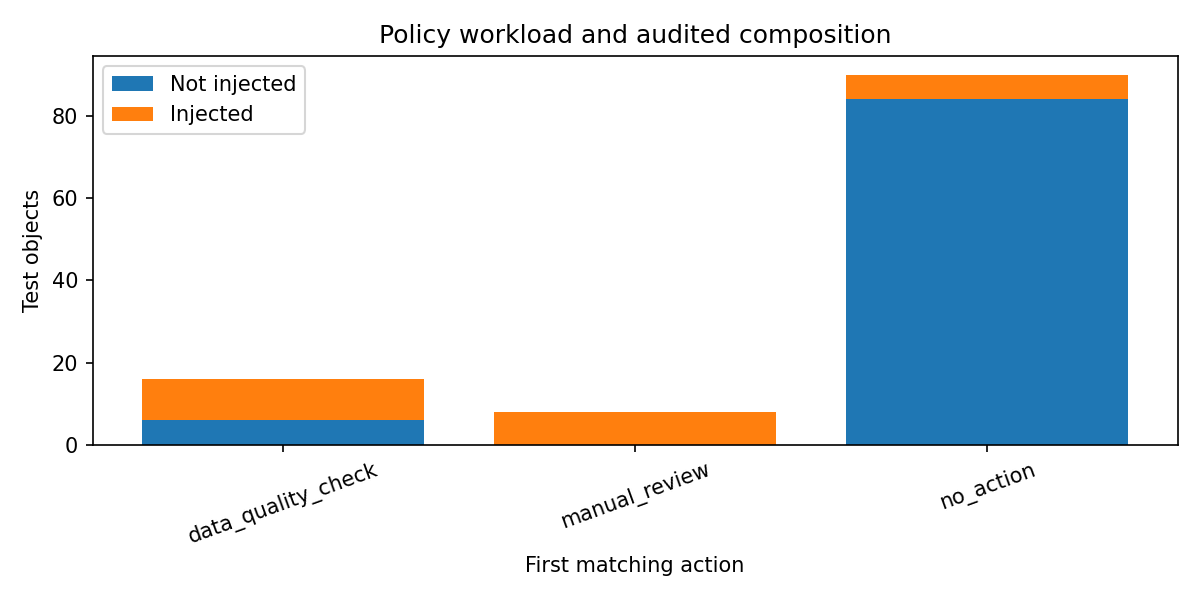
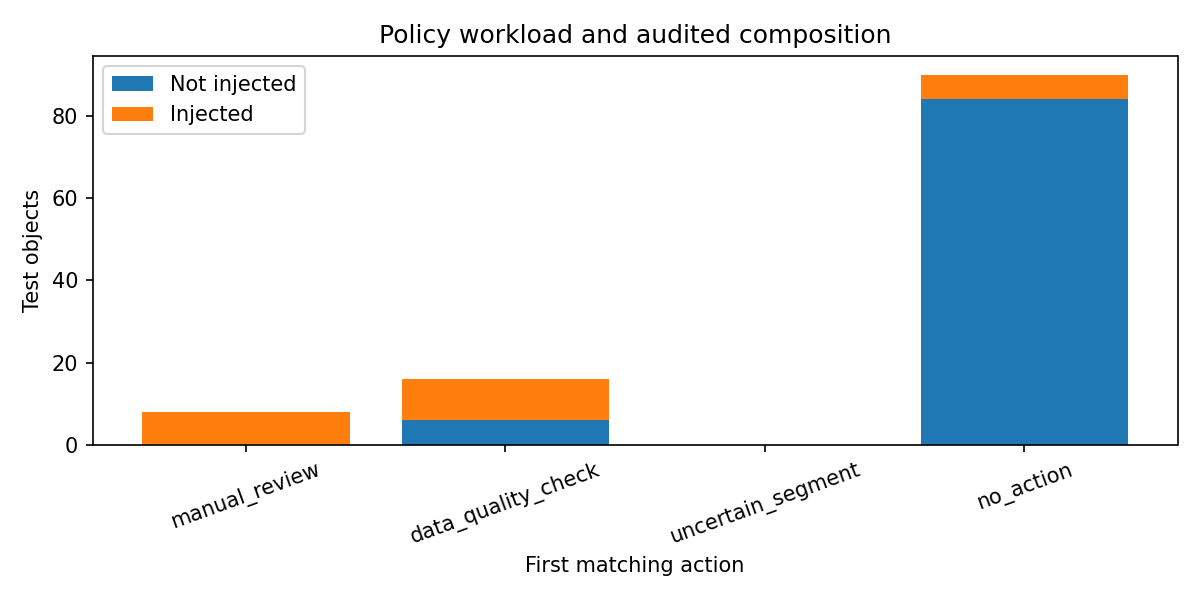
practical06: retain zero-count actions in policy consequence tables

diff --git a/practical06/pr06_analysis.py b/practical06/pr06_analysis.py
@@ -114,7 +114,9 @@ def run():
     reviewed=scores.action!='no_action';truth=batch.is_anomaly.astype(bool)
     audit=scores[['id','action','conflict']].copy();audit['controlled_anomaly']=truth;audit['kind']=batch.kind
     audit['diagnosis_audit_only']=d.y_test.to_numpy();save(audit,'action_label_audit')
-    actions=audit.groupby('action').agg(n=('id','size'),tp=('controlled_anomaly','sum'),conflicts=('conflict','sum')).reset_index()
+    all_actions=[r['action'] for r in cfg['policy']]+['no_action']
+    actions=audit.groupby('action').agg(n=('id','size'),tp=('controlled_anomaly','sum'),conflicts=('conflict','sum'))
+    actions=actions.reindex(all_actions,fill_value=0).rename_axis('action').reset_index()
     actions['fp']=actions.n-actions.tp;actions['fraction']=actions.n/len(scores);save(actions,'action_summary')
     tp=int((reviewed&truth).sum());fp=int((reviewed&~truth).sum());fn=int((~reviewed&truth).sum())
     metrics={'train_n':len(raw),'test_n':len(scores),'q':int(b['pca'].n_components_),'k':k,

diff --git a/practical06/tests/test_audit.py b/practical06/tests/test_audit.py
@@ -80,6 +80,8 @@ class TestAudit(unittest.TestCase):
         self.assertEqual(len(list((ROOT/'figures').glob('*.png'))),7)
         self.assertEqual(len(pd.read_csv(ROOT/'results/object_stability.csv')),455)
         self.assertEqual(len(pd.read_csv(ROOT/'results/cluster_profiles.csv')),60)
+        self.assertEqual(set(pd.read_csv(ROOT/'results/action_summary.csv').action),
+                         {'manual_review','data_quality_check','uncertain_segment','no_action'})
     def test_disagreement_cards_really_disagree(self):
         cards=pd.read_csv(ROOT/'results/anomaly_cards.csv')
         scores=pd.read_csv(ROOT/'results/scores_actions.csv').set_index('id')

diff --git a/practical06/README.md b/practical06/README.md
@@ -241,8 +241,9 @@ Combined успадковано з ЛР № 5 як max процентилів IF
 
 | action | n | tp | conflicts | fp | fraction |
 | --- | --- | --- | --- | --- | --- |
-| data_quality_check | 16 | 10 | 0 | 6 | 0.1404 |
 | manual_review | 8 | 8 | 8 | 0 | 0.0702 |
+| data_quality_check | 16 | 10 | 0 | 6 | 0.1404 |
+| uncertain_segment | 0 | 0 | 0 | 0 | 0.0000 |
 | no_action | 90 | 6 | 0 | 84 | 0.7895 |
 
 ![Наслідки маршрутизації](figures/07_actions.png)
